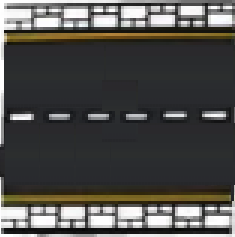
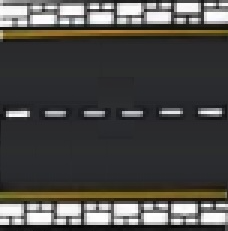
Se arma la pieza de pista larga, falra la imagen

diff --git a/main.py b/main.py
@@ -11,6 +11,7 @@ from pieces.cross import CrossPiece
 from pieces.straight_road import StraightPiece
 from pieces.curve import CurvePiece
 from pieces.t_road import TRoadPiece
+from pieces.long_straight_road import LongStraightPiece
 from utils import snap_to_closest
 from file_manager import save_track, load_track
 
@@ -137,6 +138,7 @@ class MainWindow(QMainWindow):
             {"label": "Curva", "icon": "assets/curve.png", "class": CurvePiece},
             {"label": "Cruce", "icon": "assets/cross.png", "class": CrossPiece},
             {"label": "Cruce en T", "icon": "assets/t_road.png", "class": TRoadPiece},
+            #{"label": "Recta Larga", "icon": "assets/long_straight_road.png", "class": LongStraightPiece},
         ]
 
         for item in catalog_items:

diff --git a/pieces/long_straight_road.py b/pieces/long_straight_road.py
@@ -1,0 +1,16 @@
+# jmibarra/python-mis-calles-game/python-mis-calles-game-277952323df0b1e4a23e205892c6a01f2c59a922/pieces/long_straight_road.py
+
+import pygame
+from pieces.straight_road import StraightPiece # Reutilizamos la lógica de la pieza recta
+import math
+
+# Clase para la pieza recta larga
+class LongStraightPiece(StraightPiece):
+    # Definimos la nueva ruta de imagen y el tipo
+    IMAGE_PATH = "assets/long_straight_road.png"
+    PIECE_TYPE = "LongStraight"
+
+    def __init__(self, x, y, width, height, angle=0):
+        # Llamamos al init de la clase base (Piece)
+        # pero ajustamos el ancho para que sea el doble que el alto
+        super().__init__(x, y, width * 2, height, angle)

diff --git a/file_manager.py b/file_manager.py
@@ -3,13 +3,15 @@ from pieces.cross import CrossPiece
 from pieces.straight_road import StraightPiece
 from pieces.curve import CurvePiece
 from pieces.t_road import TRoadPiece
+from pieces.long_straight_road import LongStraightPiece
 
 # Diccionario para mapear los nombres de las piezas a sus clases
 PIECE_CLASSES = {
     "Cross": CrossPiece,
     "Straight": StraightPiece,
     "Curve": CurvePiece,
-    "TRoad": TRoadPiece
+    "TRoad": TRoadPiece,
+    "LongStraight": LongStraightPiece
 }
 PIECE_SIZE = 100
 
